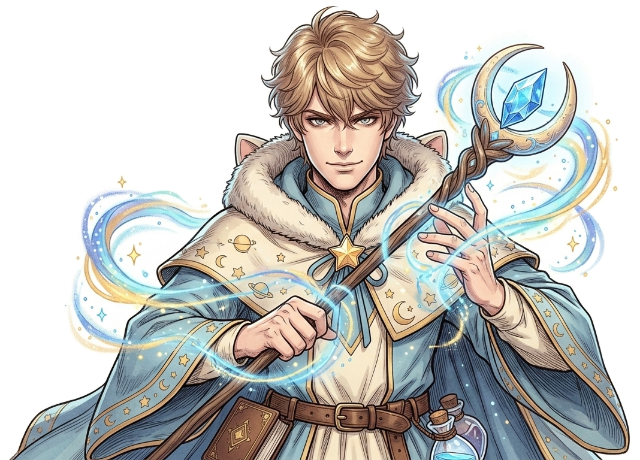
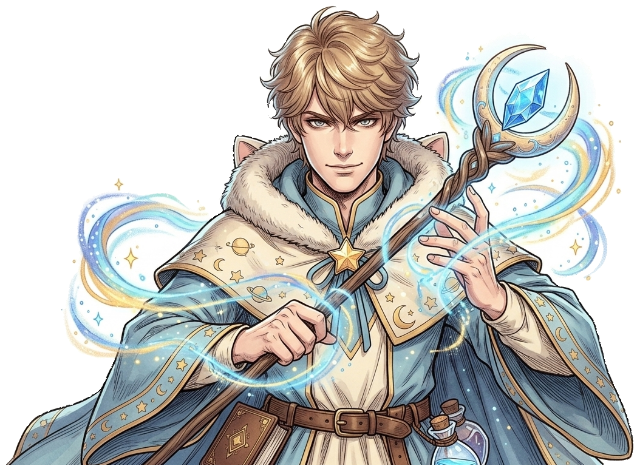
加強去背邊緣處理，侵蝕掉殘留的淺色描邊
原本的去背在邊緣會留一圈淺淺的白色描邊（去背常見的抗鋸齒殘留），
加了一道侵蝕處理把邊緣往內收 2px，讓輪廓更乾淨

Changed region(s): [[0.0, 0.0, 1.0, 1.0], [0.5938, 0.4261, 0.625, 0.4565], [0.5625, 0.3957, 0.5938, 0.4261]]

diff --git a/src/styles/guide.css b/src/styles/guide.css
@@ -8,7 +8,7 @@
 
 .guide__figure {
   width: var(--guide-width);
-  aspect-ratio: 1068 / 768;
+  aspect-ratio: 1054 / 768;
   cursor: pointer;
   animation: guide-breathe 4.5s ease-in-out infinite;
   filter: drop-shadow(0 10px 22px rgba(212, 175, 122, 0.3));
